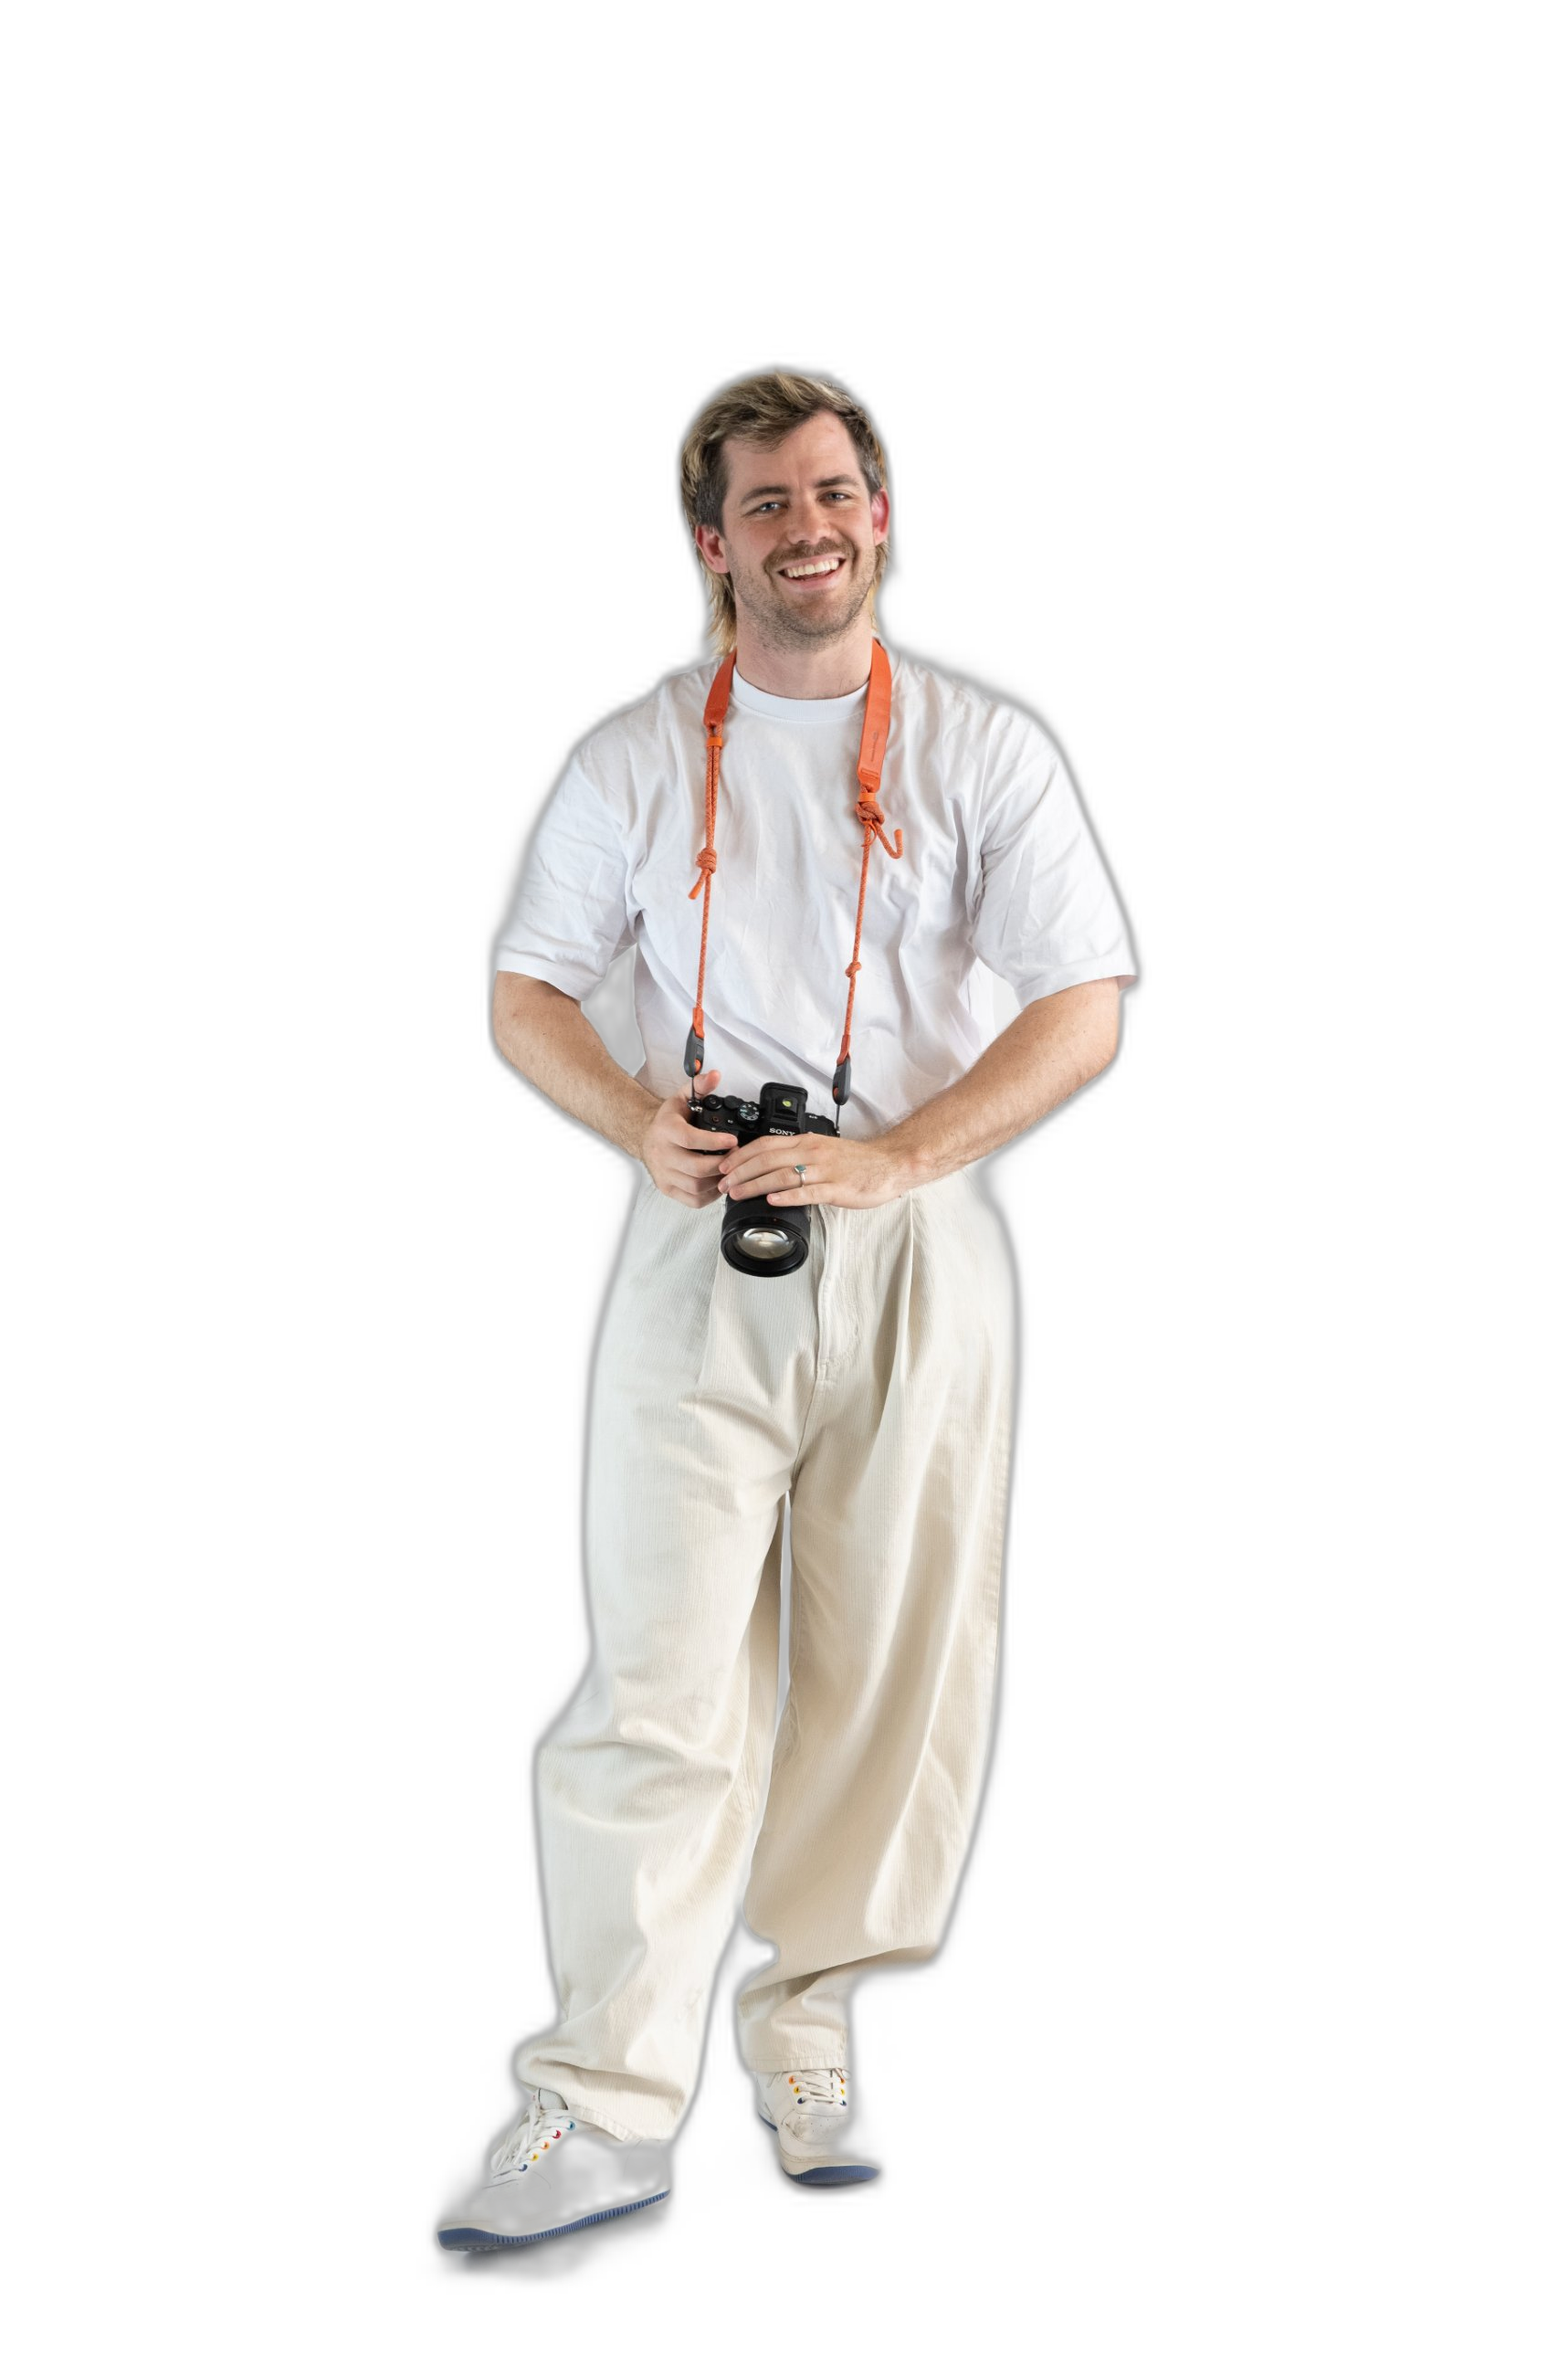
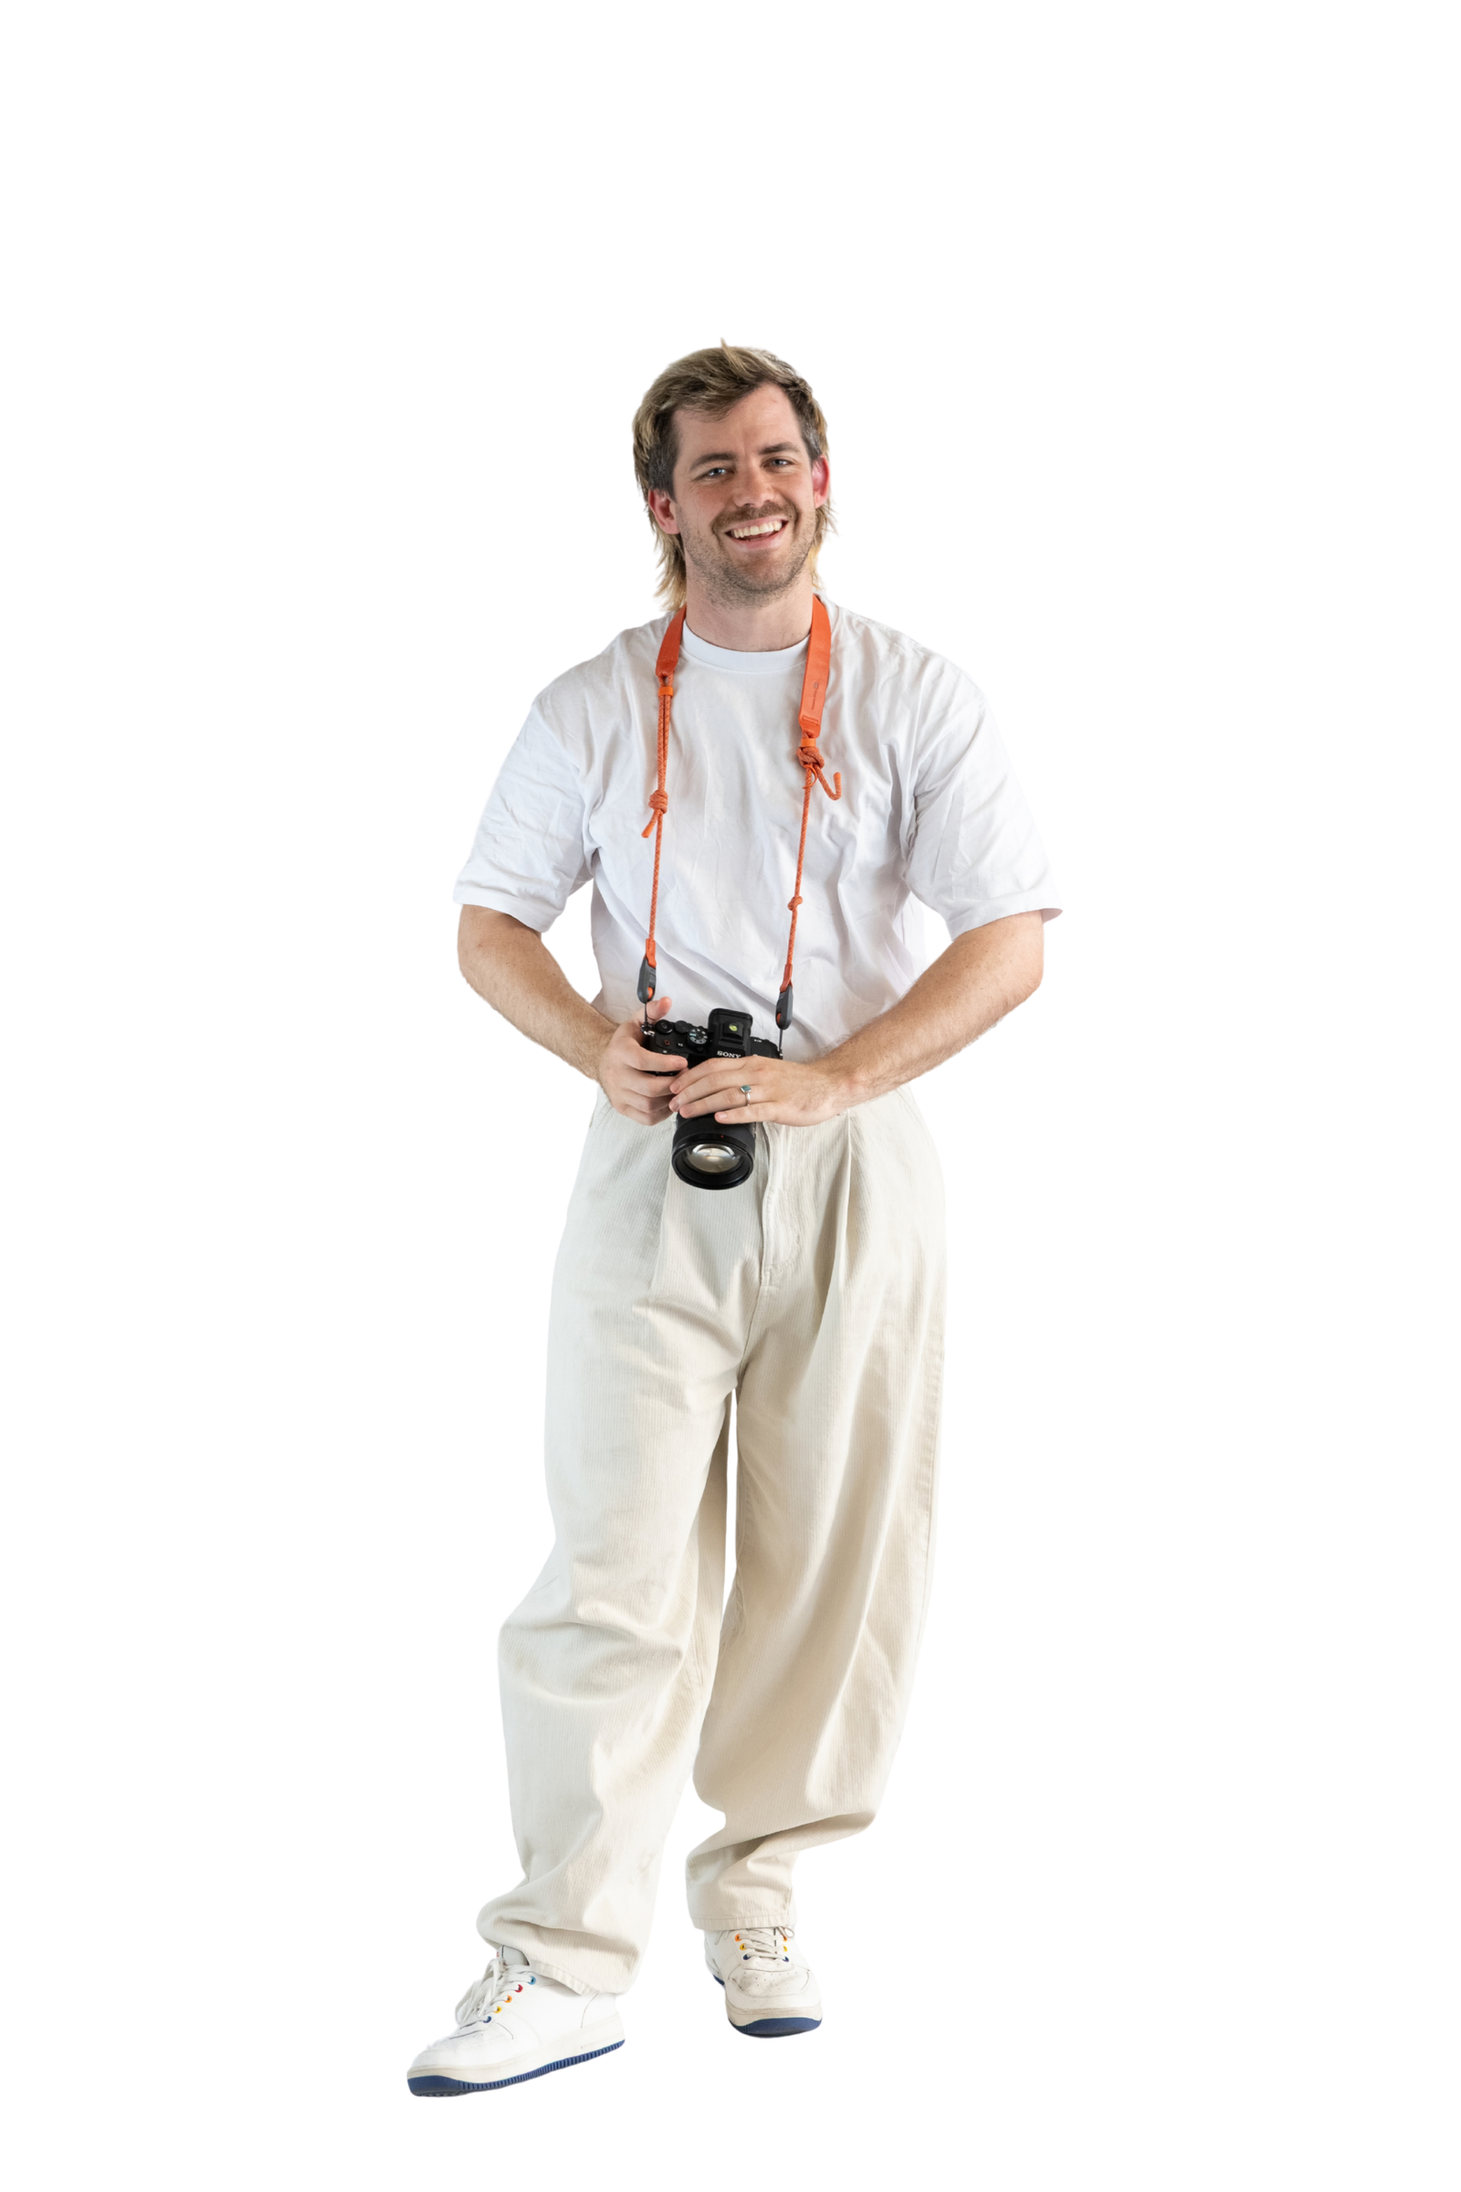
About page: swap in better cutout, fix full-bleed bug, white bg, updated copy
- Replaced the background-removed photo with Caleb's Canva-processed
  version (cleaner edges), resized/compressed from 7.6MB to ~1.2MB
- Fixed the real bug behind the 'yellow box on black' look: #hero never
  overrode the generic section rule's width:90%/margin:2rem auto, so it
  was never actually full-bleed. Now explicitly 100% width, 0 margin
- Swapped yellow for a plain white background per feedback
- Updated the About copy to Caleb's revised wording

diff --git a/about/index.html b/about/index.html
@@ -52,9 +52,10 @@
 
     <section id="hero">
         <div class="about-text">
-            <h2 id="about-heading">Hiya, I'm Caleb (surprise surprise)</h2>
-            <p>I’m a nurse by day, and photographer by night (also nurse by night, and photographer by day). I specialise in event and portrait work. I keep things relaxed, whether I’m blending into a crowd to catch candid moments or guiding you through a portrait session to capture the real you (or the fake you, I don’t mind).</p>
-            <p>I love being able to capture and reproduce the unrepeatable moments, people’s personalities, and the true atmosphere of an event.</p>
+            <h2 id="about-heading">Hi, it’s Caleb (surprise)</h2>
+            <p>I’m a nurse by day, and photographer by night (also a nurse by night, and photographer by day). I specialise in commercial, event, and portrait work.</p>
+            <p>Photography is a close passion of mine, and I would love a chance to share this passion with you.</p>
+            <p>I keep things relaxed on set, whether I’m blending into a crowd to catch candid moments or guiding you through a portrait session to capture the real you (or the fake you, I don’t mind).</p>
             <p>If you’re interested in booking a session or want to pick my brain, reach out via the <a href="../contact/">contact</a> page and we can have a chat.</p>
         </div>
 

diff --git a/css/about.css b/css/about.css
@@ -2,7 +2,10 @@
     display: flex;
     align-items: stretch;
     min-height: 100vh;
-    background-color: var(--background-navigation);
+    width: 100%;
+    margin: 0;
+    background-color: #FFFFFF;
+    box-sizing: border-box;
 }
 
 .about-text {
